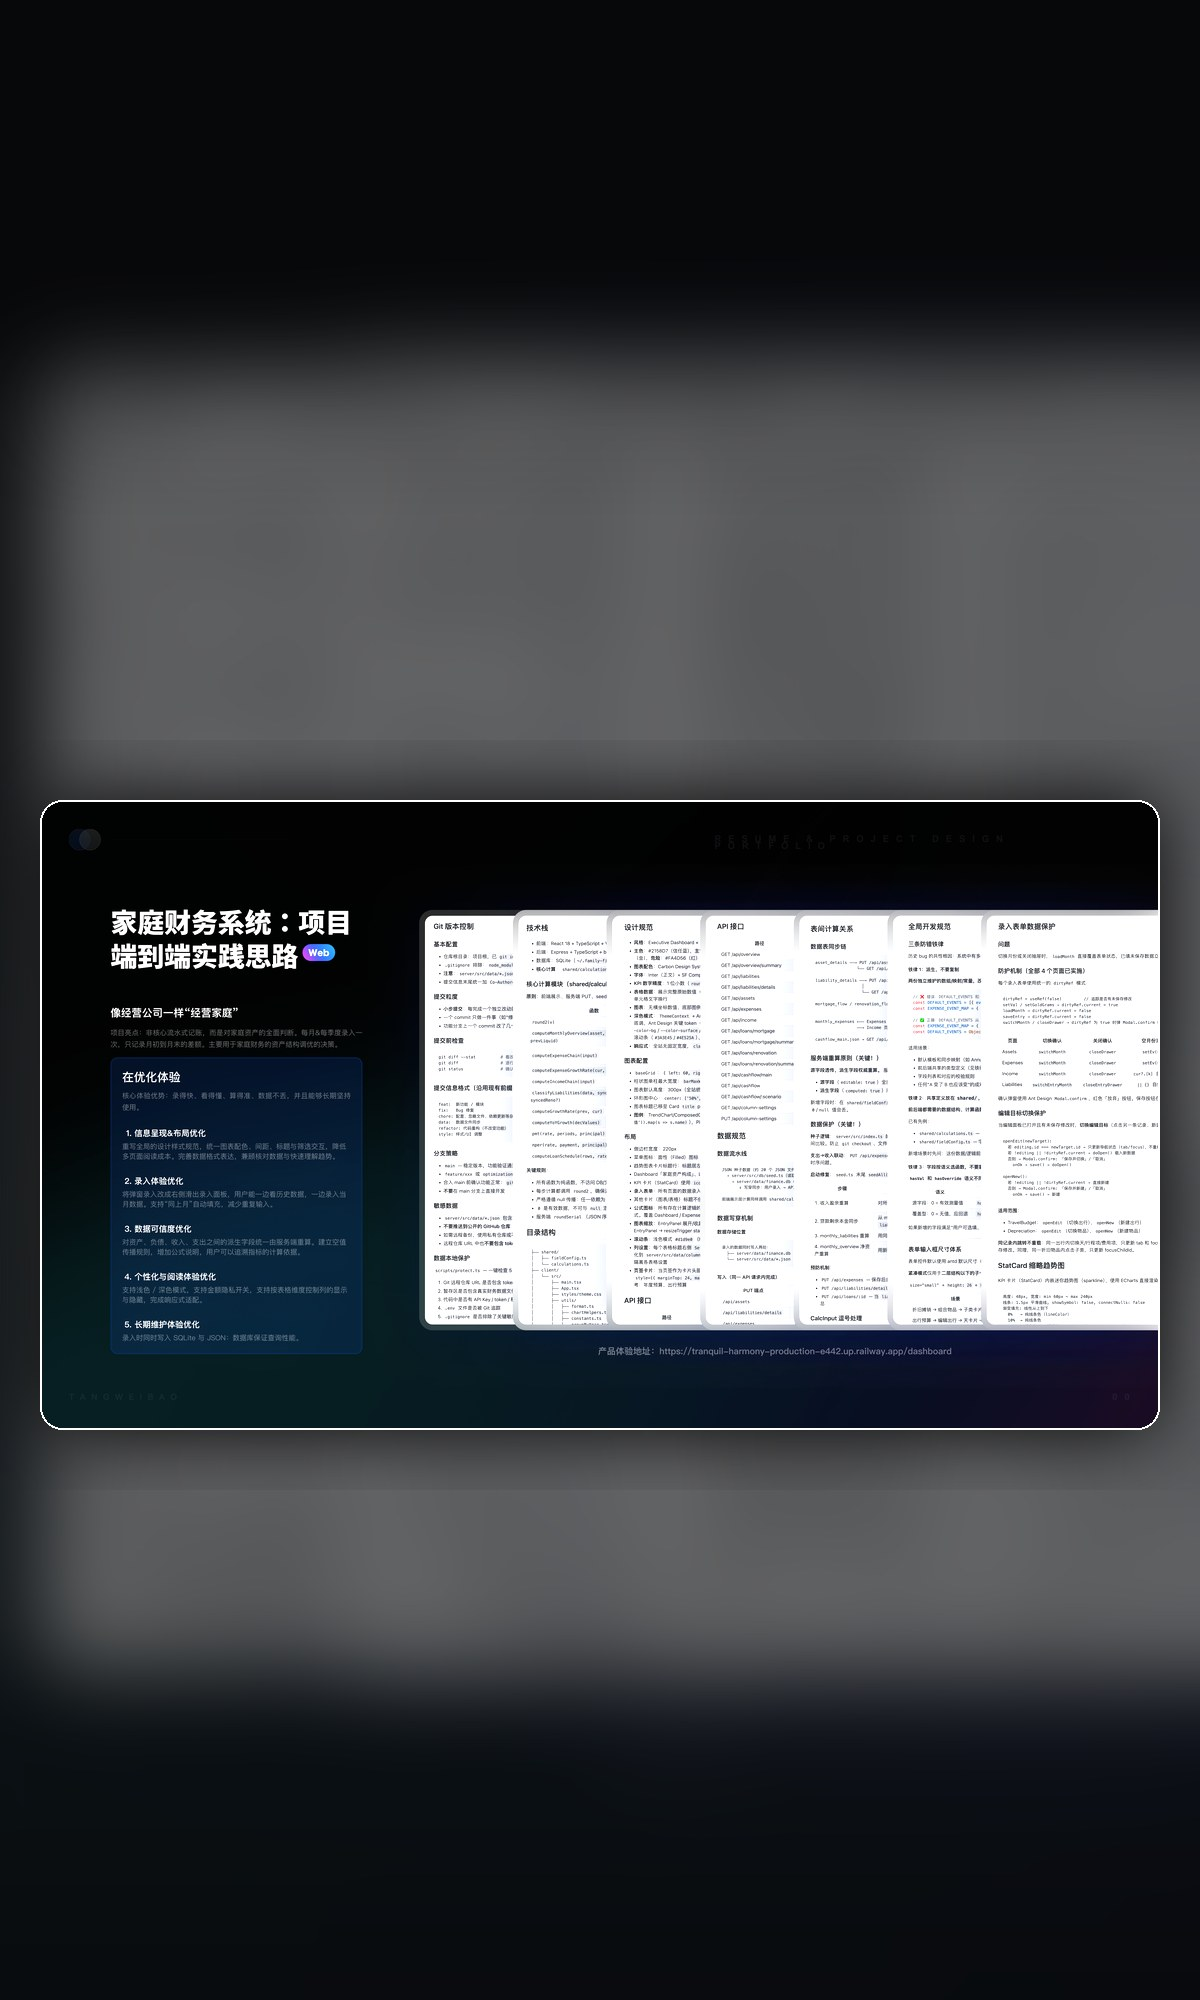
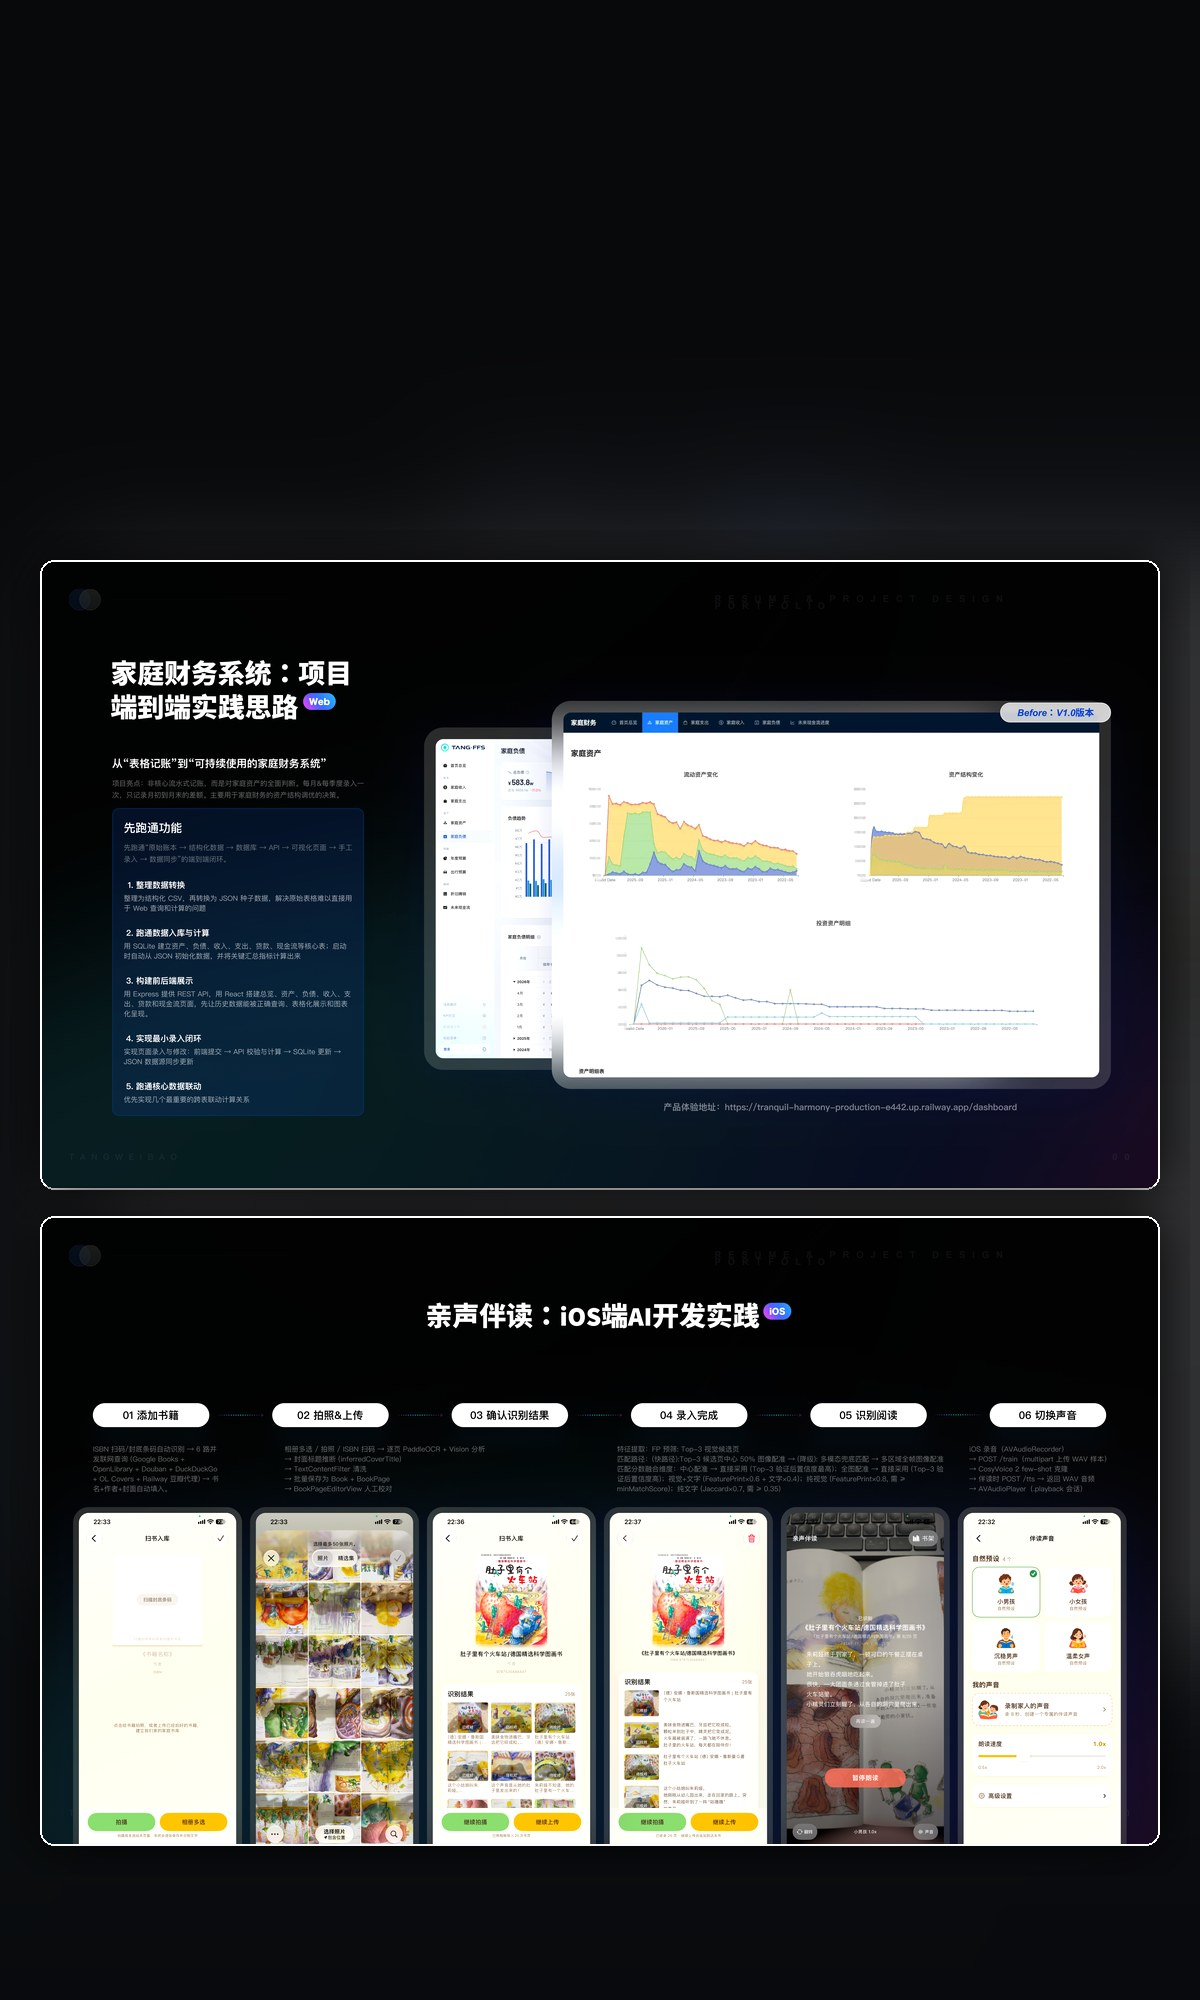
修正字节跳动四个项目封面：改为双截图拼贴
- 原 1200×2000 封面上下留白过多、卡片里几乎只剩一条模糊截图，辨识度差
- 改为暗底 + 上下两张 16:9 关键页拼贴（每张 1120×630，圆角/描边），
  顶部留标题区、底部留页码/类型区，卡片裁切后仍能看清两张关键画面
- AGENTS.md §6 封面描述同步

验证：1440×900 首页 / 项目导航截图检查，四张封面内容清晰、与标题/页码
不冲突，无 JS 报错。

diff --git a/AGENTS.md b/AGENTS.md
@@ -399,6 +399,6 @@
   2. `douyin-ai-cover` 抖音AI封面：9 页
   3. `douyin-other` 抖音其他项目：4 页
   4. `douyin-ai-practice` 个人AI转型实践：5 页图片 + 1 页复合视频（亲声伴读，沿用原 `readingSlide` + demo 视频）
-- **素材处理**：54 张源图 → 53 页 slide（2560×1440 JPEG q90，约 17 MB）+ 53 张 320×180 缩略图；封面统一生成 1200×2000 竖版 JPEG（暗色底 + 居中的 16:9 截图卡片），放入 `assets/thumbs/douyin-*.jpg`。
+- **素材处理**：54 张源图 → 53 页 slide（2560×1440 JPEG q90，约 17 MB）+ 53 张 320×180 缩略图；封面统一生成 1200×2000 竖版 JPEG（暗色底 + 上下两张 16:9 截图拼贴，顶部留标题区），放入 `assets/thumbs/douyin-*.jpg`。
 - **兼容性**：`readingSlide` 从「抖音创作服务平台第 2 页」移到「个人AI转型实践第 6 页」；查看器、缩略图、相邻页预加载、复合视频播放、首页/项目页卡片计数全部自动适配（35/9/4/6 PAGES）。
 - **验证**：4 个项目路由与页数、缩略图数量（35/9/4/6）、末页图片加载（2560×1440，无坏图）、复合页播放（`<video>` 注入 demo 源并播放）全部通过；8 视口首页/项目页/预览页布局无裁切、无横向溢出；无 JS 报错、无 HTTP ≥400。
